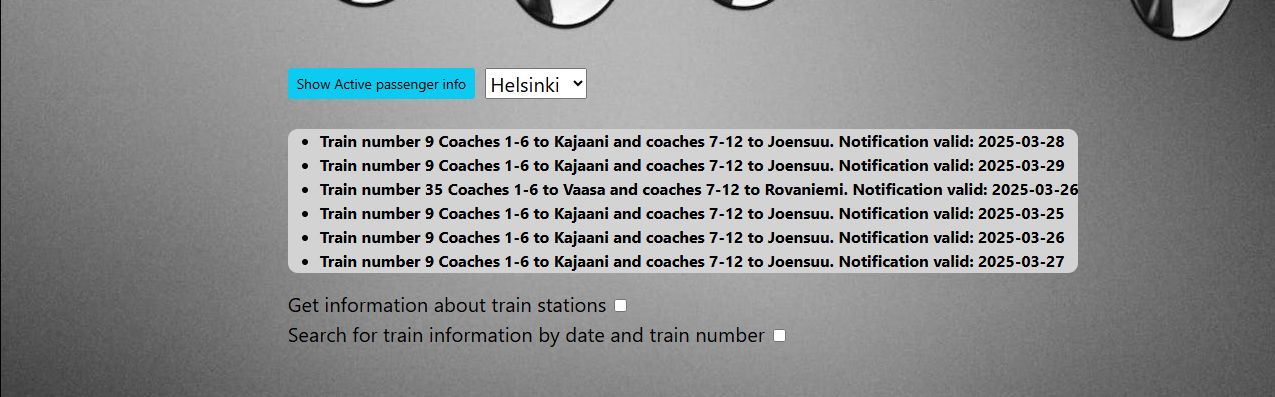
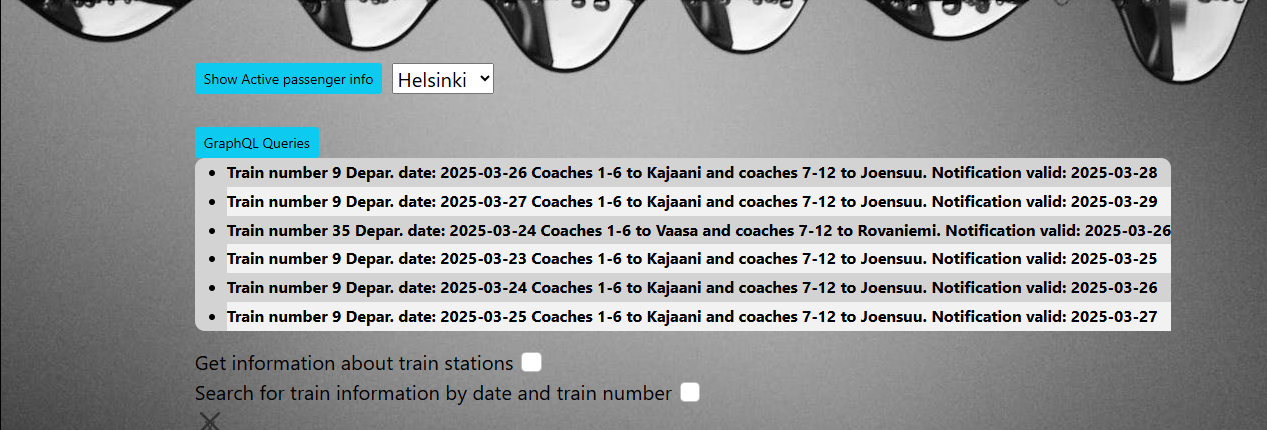
Zebra Striped style added to passenger information

diff --git a/src/pages/train.js b/src/pages/train.js
@@ -13,8 +13,8 @@ function Train() {
     const [station, setStation] = useState('')
     const [trainNum, setTrainNum] = useState('')
     const [selectionDiv, setSelectionDiv] = useState(true)
-    let date=Date()
-    var [dateValue,setDateValue]=useState(dayjs(date))
+    let date = Date()
+    var [dateValue, setDateValue] = useState(dayjs(date))
 
     function clear() {
 
@@ -24,7 +24,7 @@ function Train() {
 
     function getSelctedStation(val) {
         setStationClick(!stationClick)
-        const stationUrl = `https://rata.digitraffic.fi/api/v1/live-trains/station/${val}`
+        const stationUrl = `https://rata.digitraffic.fi/api/v1/live-trains/station/${val}?departed_trains=5`
         const USERID = { 'Digitraffic-User': 'Junamies/FoobarApp 1.0' }
         fetch(stationUrl, { headers: USERID })
             .then(response => {
@@ -47,6 +47,29 @@ function Train() {
             })
     }
 
+    function showArrivingAndDeparting() {
+        //
+        const URLi = 'https://rata.digitraffic.fi/api/v1/live-trains/station/HKI/TPE'
+        const USERID = { 'Digitraffic-User': 'Junamies/FoobarApp 1.0' }
+        fetch(URLi, { headers: USERID })
+        .then(response => {
+            return response.json()
+        })
+        //data on json-tulosjoukon nimi
+        .then(data => {
+            console.log(data)
+            //data käydään silmukassa läpi, d on silmukkamuuttuja kuin esim i for-loopissa
+
+            data.forEach(d => {
+                const li = document.createElement("li")
+
+                li.innerText = d.timeTableRows[0].stationShortCode+" Track: "+d.timeTableRows[0].commercialTrack+" " +d.timeTableRows[0].type+" "+d.timeTableRows[0].scheduledTime
+                document.getElementById("list").appendChild(li)
+            })
+
+        })
+    }
+
     function handleTrainData() {
         const URLi = `https://rata.digitraffic.fi/api/v1/passenger-information/active?station=${station}`
         const USERID = { 'Digitraffic-User': 'Junamies/FoobarApp 1.0' }
@@ -60,16 +83,22 @@ function Train() {
             .then(data => {
                 console.log(data)
                 //data käydään silmukassa läpi, d on silmukkamuuttuja kuin esim i for-loopissa
-
+                var i = 0
                 data.forEach(d => {
+                    i+=1
                     const li = document.createElement("li")
-
-
-
+                    if (i % 1 == 0)
+                    {
+                        li.setAttribute("class",'passengerInfo')
+                    }
+                    if (i % 2 == 0)
+                    {
+                        li.setAttribute("class","passengerinfo2")
+                    }
                     //li.innerText="Train number: "+d.trainNumber+" "+d.audio.text.en
                     //kentässä näytetää json tulosjoukon roadstationid ja sensorvalue-
                     //li.innerText=d.audio.text.en
-                    li.innerText = "Train number " + d.trainNumber + ' ' + d.audio.text.en + " Notification valid: " + d.endValidity.replace("T00:00:00Z", " ")
+                    li.innerText = "Train number " + d.trainNumber + ' Depar. date: '+d.trainDepartureDate +' '+ d.audio.text.en + " Notification valid: " + d.endValidity.replace("T00:00:00Z", " ")
                     document.getElementById("list").appendChild(li)
                 })
 
@@ -105,13 +134,13 @@ function Train() {
 
         <div>
             <div className="pasInfo">
-            <button class="btn btn-info btn-sm" onClick={handleTrainData}>Show Active passenger info</button>
-            <select onChange={(e)=>setStation(e.target.value)}>
-                <option value={"TPE"}>Tampere</option>
-                <option value={"HKI"}>Helsinki</option>
-                <option value={"SK"}>Seinäjoki</option>
-                <option value={"OL"}>Oulu</option>
-            </select>
+                <button class="btn btn-info btn-sm" onClick={handleTrainData}>Show Active passenger info</button>
+                <select onChange={(e) => setStation(e.target.value)}>
+                    <option value={"TPE"}>Tampere</option>
+                    <option value={"HKI"}>Helsinki</option>
+                    <option value={"SK"}>Seinäjoki</option>
+                    <option value={"OL"}>Oulu</option>
+                </select>
             </div>
             <br></br><br></br>
             <Routes>
@@ -119,14 +148,14 @@ function Train() {
                     <Route path="/traingql" element={<TrainGraphQl />} />
                 </Route>
             </Routes>
-            
+
             <Link to="/traingql"><button className="btn btn-info btn-sm">GraphQL Queries</button></Link>
 
             <div id="trainContent" className="trainContent">
                 <ul id="list" className="list"></ul>
             </div>
             <label htmlFor="stationCB">Get information about train stations</label>
-            <input type="checkbox" id="stationCB" onChange={() => setSelectionDiv(!selectionDiv)}></input>
+            <input class="form-check-input" type="checkbox" id="stationCB" onChange={() => setSelectionDiv(!selectionDiv)}></input>
             <div hidden={selectionDiv} className="selection">
 
                 <br></br>
@@ -141,23 +170,28 @@ function Train() {
                 </select>
             </div>
             <br></br>
-            <div>
-                <label htmlFor="srcCB">Search for train information by date and train number</label>
-                <input className="srcCB" type="checkbox" onChange={() => setTrainComposition(!trainComposition)}></input>
+            <div class="arrNdep" hidden={selectionDiv}>
+                
+                    <label class="form-check-label" for="ArrivingDeparting">Show arriving and departing trains</label>
+                    <input class="form-check-input" type="checkbox" value="" id="ArrivingDeparting" onClick={showArrivingAndDeparting}></input>
+            </div>
+            <div> 
+                <label class="form-check-label" for="srcCB">Search for train information by date and train number</label>
+                <input class="form-check-input" type="checkbox" onChange={() => setTrainComposition(!trainComposition)}></input>
                 <div>
                     {/*checkboxin klikkaus muuttaa trainCompositionin trueksi ja silloin näytetään alla olevat input kentät*/}
                     {trainComposition && <>  <LocalizationProvider dateAdapter={AdapterDayjs}>
                         {/*newvalue parametri on valittu päivämäärä*/}
-                        <DatePicker format="YYYY-MM-DD" value={dateValue}  onChange={(newValue)=>setDateValue(newValue)} />
-                            {/*dayjs kirjastolla saadaan muutettua Date objektin päivämäärä muotoon YYYY-DD-MM*/}
-                            
-                            {console.log(dayjs(dateValue).format('YYYY-MM-DD'))}
+                        <DatePicker format="YYYY-MM-DD" value={dateValue} onChange={(newValue) => setDateValue(newValue)} />
+                        {/*dayjs kirjastolla saadaan muutettua Date objektin päivämäärä muotoon YYYY-DD-MM*/}
 
-                            
+                        {console.log(dayjs(dateValue).format('YYYY-MM-DD'))}
+
+
                     </LocalizationProvider><><input className="trainNumber" type="text" onChange={e => setTrainNum(e.target.value)} name="trainNum" id="trainNum" placeholder="eg. 59"></input><button class="btn btn-primary" onClick={() => handleCompositionData(dayjs(dateValue).format('YYYY-MM-DD'), trainNum)}>Fetch Data</button></></>}
                 </div>
             </div>
-          
+
             {trainClick && <button id="clearBtn" class="btn-close" onClick={clear}>X</button>}
             {stationClick && <button id="clearBtn" class="btn-close" onClick={clear}>X</button>}
 

diff --git a/src/App.css b/src/App.css
@@ -103,4 +103,12 @@
 .pasInfo{
   display : inline-flex;
 }
+.passengerInfo {
+  line-height: 1.8;
+}
+.passengerinfo2 {
+  line-height: 1.8;
+  background-color: #f2f2f2;
+}
+
 

diff --git a/README.md b/README.md
@@ -39,7 +39,7 @@ RAILWAY PASSENGER INFORMATION
 
 The user can search for passenger information by station. The station is selected from the HTML select component. Each selection has a value attribute containing the station abbreviation, which is stored in a state variable and sent to the JavaScript function performing the search using the onChange event handler when the user has selected the desired station.
 
-Example image where the user has selected Helsinki Station and retrieved active passenger information
+Example image where the user has selected Helsinki Station and retrieved active passenger information. Passenger information is displayed in an li element, where every other row uses the CSS color code #f2f2f2 and the  line-height is 1.8.
 
 ![alt text](src/images/passengerInfo.png)
 
@@ -80,7 +80,6 @@ Example image where the user has searched for all ongoing roadworks in Finland a
 ![alt text](src/images/roadAnnounc.png)
 
 GRAPHQL QUERIES
-
 
 GraphQL API queries are available for rail traffic and user can write queries themselves. queries are written to the textarea element and stored in a state variable. GraphQL API queries are implemented with the Apollo client.
 
